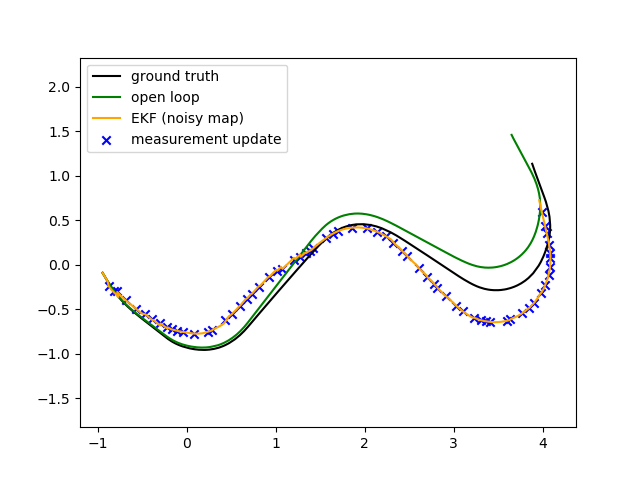
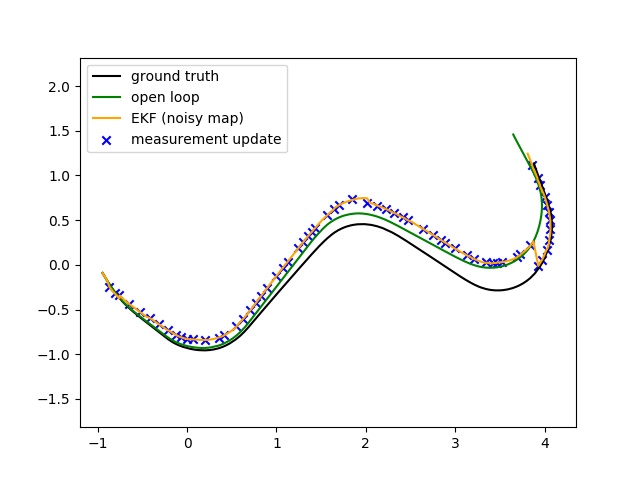
HW4 P2 code complete

diff --git a/hw4/AA274A_HW4/ekf.py b/hw4/AA274A_HW4/ekf.py
@@ -416,9 +416,10 @@ class EkfSlam(Ekf):
 
         ########## Code starts here ##########
 
+        # No change whatsoever.
+        
         # Vectorized version
 
-        """
         # Conversions
         d       = self.x.shape[0]       # Should be 3 for (x, y, th)
         Sig     = self.Sigma            # shape(d, d). Belief (Gaussian) covariance 
@@ -428,7 +429,7 @@ class EkfSlam(Ekf):
         z_raw   = z_raw.T               # shape(n_mea, 2)
 
         n_mea = z_raw.shape[0]          # Num of measured lines
-        n_lin = (Hs.shape[0] - 3) // 2  # Num of known lines on map.
+        n_lin = Hs.shape[0]             # Num of known lines on map.
                                         ## state = [x, y, th, alp1, r1, alp2, k2, ...]
         thresh = self.g * self.g        # Association threshold as given by pset
 
@@ -437,15 +438,11 @@ class EkfSlam(Ekf):
         S_mat = np.matmul(Hs, Sig)                            # shape(n_lin, 2, d)
         S_mat = np.matmul(S_mat, np.transpose(Hs, (0, 2, 1))) # shape(n_lin, 2, 2)
         S_mat = S_mat[:, None, :, :] + Q_raw[None, :, :, :]   # shape(n_lin, n_mea, 2, 2)
-        print(S_mat.shape)
 
         Sinv_mat = np.linalg.inv(S_mat)                         # shape(n_lin, n_mea, 2, 2)
         v_fat = v_mat[..., None]                                # shape(n_lin, n_mea, 2, 1)
         d_mat = np.matmul(np.transpose(v_fat, (0, 1, 3, 2)), Sinv_mat)
         d_mat = np.matmul(d_mat, v_fat)                         # shape(n_lin, n_mea, 1, 1)
-        print(d_mat.shape)
-        print(n_lin)
-        print(n_mea)
         d_mat = np.reshape(d_mat, (n_lin, n_mea))               # shape(n_lin, n_mea)
 
         idx = np.linspace(1, n_mea, n_mea, dtype=np.int) -1   # just counts up in [0, n_mea-1]
@@ -458,24 +455,26 @@ class EkfSlam(Ekf):
         v_list = v_mat[lin_idxs, mea_idxs, :].tolist()  # shape(<=n_mea, 2)
         Q_list = Q_raw[mea_idxs, :, :].tolist()         # shape(<=n_mea, 2, 2)
         H_list = Hs[lin_idxs, :, :].tolist()            # shape(<=n_mea, 2, d)
-        """
 
+
+        """
         # Naive loopy version.
         d   = self.x.shape[0] # Should be 3 for (x, y, th)
         Sig = self.Sigma      # shape(d, d). Belief (Gaussian) covariance 
-        Hs = np.asarray(Hs)   # shape(n_lin, 2, d)
-        # hs = hs             # shape(2, n_lin)
-        n_mea = z_raw.shape[1]          # Num of measured lines
-        n_lin = (Hs.shape[0] - 3 // 2)  # Num of known lines on map. Only this bit has changed.
-        thresh = self.g * self.g        # Association threshold as given by pset
+        Hs = np.asarray(Hs)   # shape(n_sta, 2, d)
+        # hs = hs             # shape(2, n_sta)
+        n_mea = z_raw.shape[1]      # Num of measured lines
+        n_sta = self.x.shape[0]     # Dimension of state vector
+        n_lin = Hs.shape[0]         # Num of known lines on map.
+        thresh = self.g * self.g    # Association threshold as given by pset
 
         v_list = []
         Q_list = []
         H_list = []
 
-        for i in range(n_mea): # For each measurement we have
-            zi = z_raw[:, i] # observation
-            Qi = Q_raw[i] # shape(2,2) observation covariance
+        for i in range(n_mea):  # For each measurement we have
+            zi = z_raw[:, i]    # observation. shape(2,)
+            Qi = Q_raw[i]       # shape(2,2) observation covariance
 
             d_min = np.inf
 
@@ -496,6 +495,7 @@ class EkfSlam(Ekf):
                 v_list.append(v)
                 Q_list.append(Q)
                 H_list.append(H)
+        """
 
         ########## Code ends here ##########
 
@@ -553,12 +553,20 @@ class EkfSlam(Ekf):
                 [dalpC_dxR, dalpC_dyR, dalpC_dthR],
                 [drC_dxW,   drC_dyW,   drC_dthW]
             ])
+            # So the columns of Hx go dx, dy, dth, dalp1, dr1, dalp2, dr2, ...
 
             # First two map lines are assumed fixed so we don't want to propagate
-            # any measurement correction to them.
+            # any measurement correction to them. i.e. Entries all zero.
+            # Otherwise:
+
+            # dalpC_dalpC = 1
+            # dalpC_drC   = 0
+            drC_dalpC     = xcam*np.sin(alp) - ycam*np.cos(alp)
+            # drC_drC     = 1
+
             if j >= 2:
-                Hx[:,idx_j:idx_j+2] = np.eye(2) # FIX ME!
-                Hx[:,idx_j] = xcam*np.sin(alp) - ycam*np.cos(alp) #TODO
+                Hx[:,idx_j:idx_j+2] = np.eye(2)
+                Hx[1,idx_j] = drC_dalpC
             ########## Code ends here ##########
 
             h, Hx = tb.normalize_line_parameters(h, Hx)
